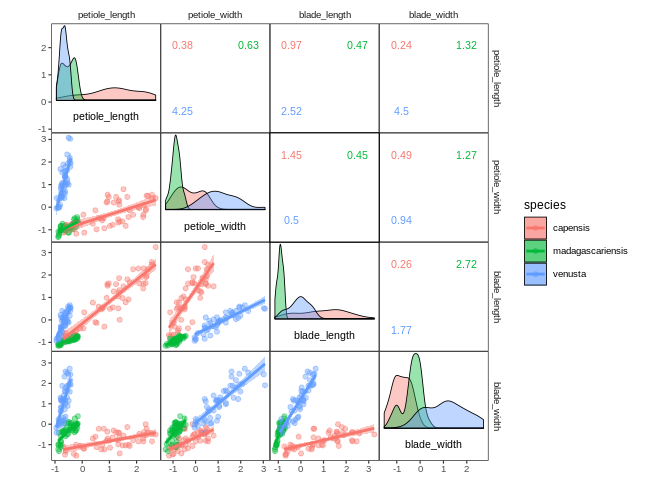
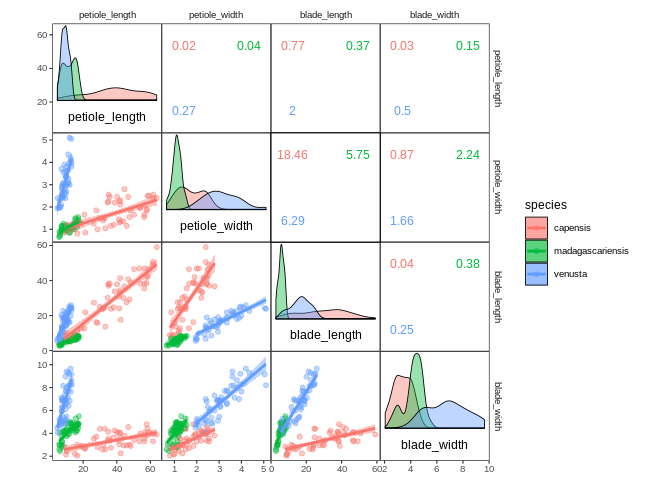
Update README with most recent changes

diff --git a/README.md b/README.md
@@ -155,7 +155,8 @@ colnames(data1) <- paste("Var.", 1:ncol(data1))
 # create plot
 ggcorrm(data1, 
         mapping = aes(col = .corr, fill = .corr),
-        bg_dia = "grey20") +
+        bg_dia = "grey20", 
+        rescale = "by_sd") +
   lotri(geom_smooth(method = "lm", size = .3)) +
   lotri(geom_point(alpha = 0.5)) +
   utri_corrtext(nrow = 2, squeeze = 0.6) +
@@ -181,7 +182,7 @@ of variables:
 
 ``` r
 select(mtcars, mpg, disp:qsec) %>% 
-ggcorrm() +
+ggcorrm(rescale = "by_range") +
   utri_heatmap(alpha = 0.5) +
   lotri_heatcircle(alpha = 0.5, col = 1) +
   utri_corrtext() +
